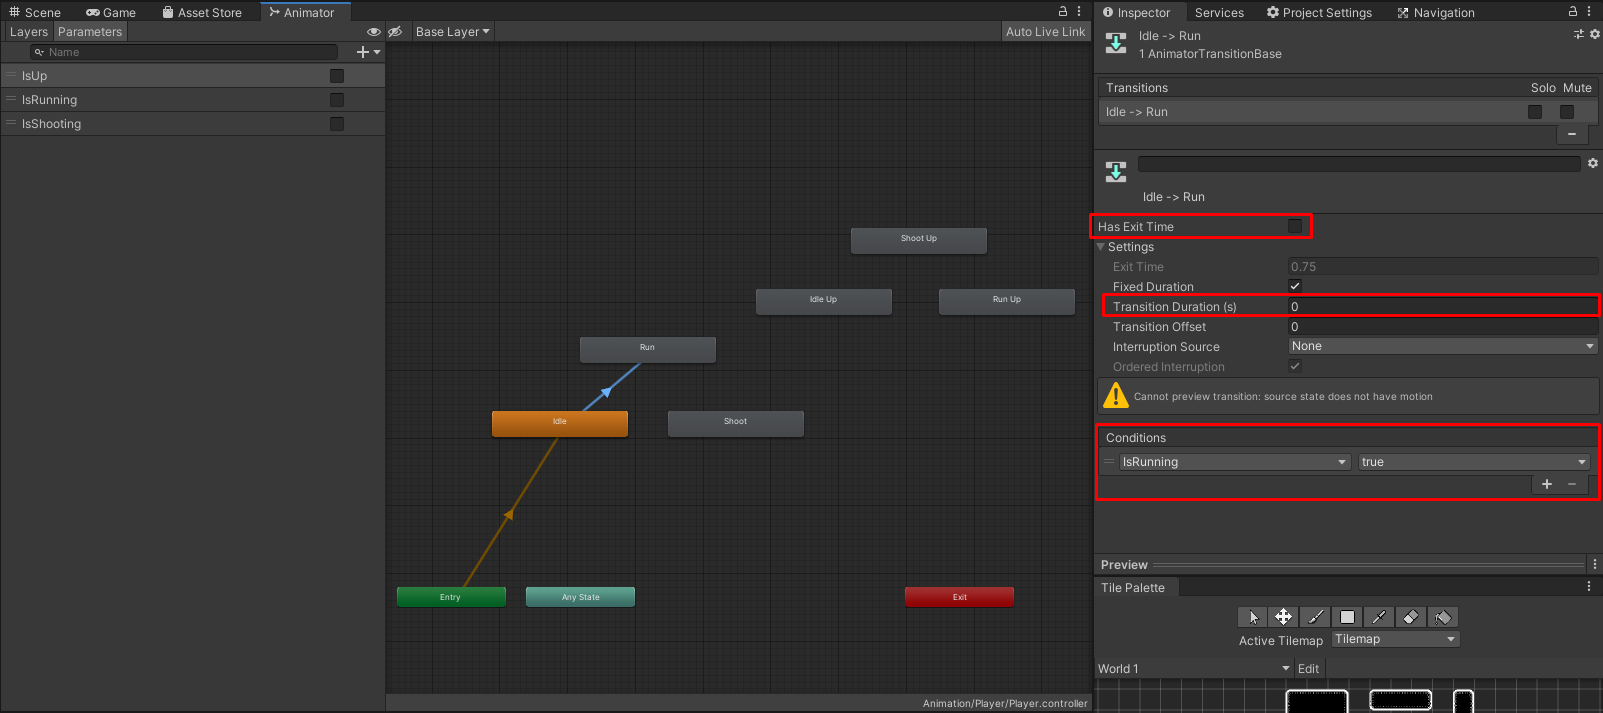
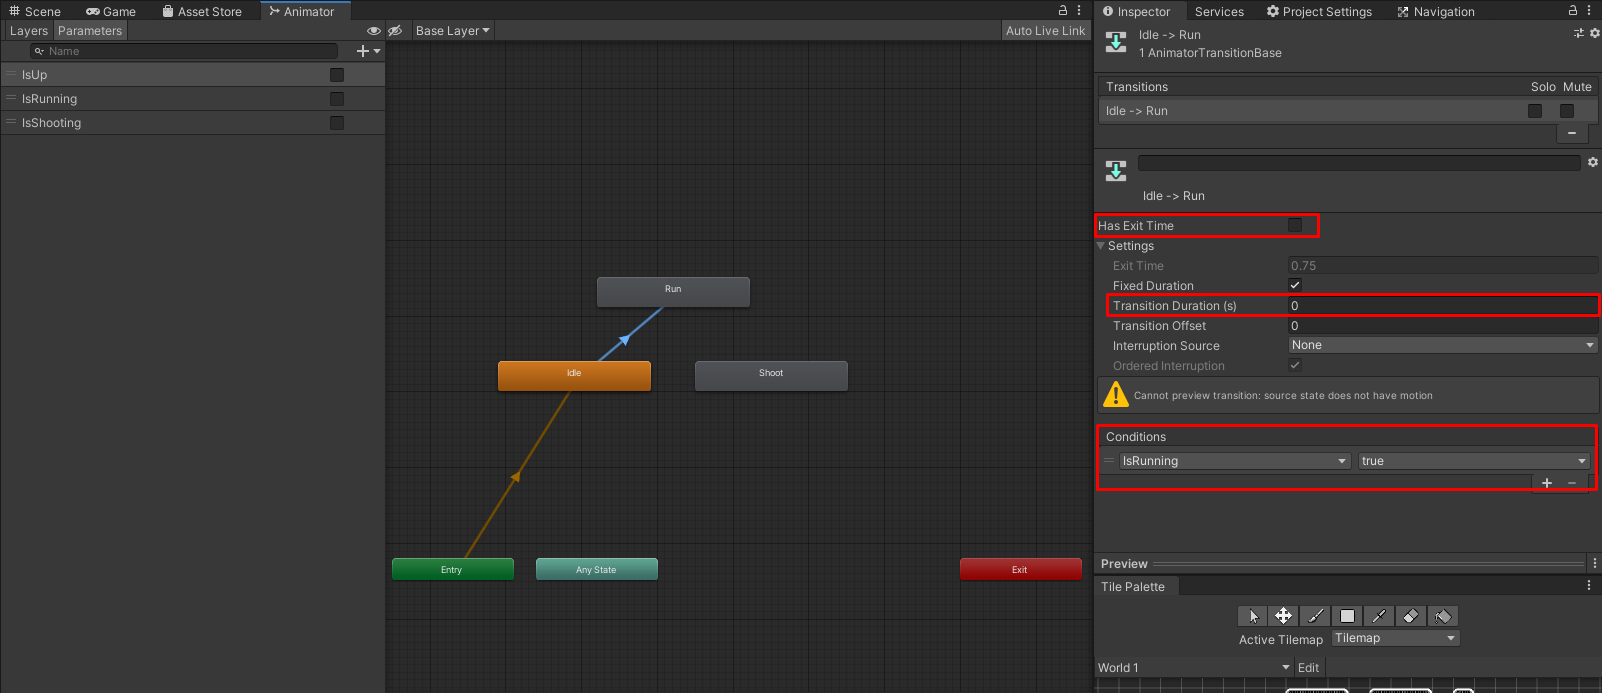
Animation finished

diff --git a/README.md b/README.md
@@ -81,12 +81,14 @@ Kita dapat mencoba memainkan gamenya.
 
 Untuk membuat tilemap dengan cell size yang sama, kita dapat langsung membuat empty game object yang menjadi child Grid. Lalu menambahkan komponen ```Tilemap``` dan ```Tilemap Renderer```. Jika membutuhkan collision bisa menambahkan ```Tilemap Collider```.
 
-## Fixing Rigidbody Rotation and Physics Material
+## Fixing Rigidbody Rotation, Tilemap Collider and Physics Material
 Setelah kita memainkan gamenya, ada 2 masalah yang muncul. Pertama player dapat berotasi jika menabrak sesuatu, dan yang kedua pemain akan menempel ke tembok jika kita gerakkan ke arah tembok. Mari kita perbaiki bug ini.
 
 ![img](img/Bug-1.png)
 
 ![img](img/Bug-2.png)
+
+Dan yang terakhir jika kita mencoba memainkan gamenya, beberapa kali pemain akan tersandung. Ini karena meskipun secara teori tidak ada gap antara tile satu dengan lainnya, terkadang collider pemain masih menganggap player dan tile collide.
 
 ### Rigidbody Constraint
 Seperti yang kita tahu, ```Rigidbody``` akan mengoverride attribut di transform seperti posisi, rotasi. Dalam ```rigidbody```, kita dapat membuat constraint agar ```rigidbody``` tidak mengubah suatu property dalam transform. Untuk ```Rigidbody2D``` dapat di setting di gambar berikut. Dapat dilihat kita dapat memberikan 3 constraint, yaitu Freeze Position X, Freeze Position Y, dan Freeze Rotation Z.  Sesuai dengan namanya, freeze position X berarti ```Rigidbody``` tidak akan mengubah posisi x object tersebut, kita tetap bisa mengubah valuenya jika mengubah transform akan tetapi ```Rigidbody``` tidak akan mengubah value tersebut sama sekali. Begitu juga berlaku untuk Freeze Position Y. Yang terakhir Freeze Rotation Z berarti Rigidbody tidak akan mengubah rotasi dari transform tersebut akan tetapi kita tetap bisa mengubah rotasi transform menggunakan komponen transform.
@@ -109,6 +111,17 @@ Dalam inspector, kita dapat mengubah friction dan bounciness. Friction akan mene
 Setelah membuat physics material. Klik object tilemap, lalu masukkan physics material ke dalam kolom physics material di Collider.
 
 ![img](img/Collider-Physics-Material-Attribute.png)
+
+### Composite Collider
+```Composite Collider``` merupakan ```collider``` khusus yang digunakan untuk menggabungkan semua collider "dibawahnya" dengan attribut used by composite active. Apa maksud dibawahnya? Artinya semua komponen ```collider``` yang ada di satu game object dengan ```Composite Collider``` dan semua komponen ```collider``` yang berada di child game object komponen ```composite collider```. 
+
+Dengan menambahkan ```Composite Collider``` ke object Tilemap dan mengaktifkan Used by composite di ```Tilemap Collider``` maka kita akan meanggabungkan semua ```collider```.
+
+```Composite Collider``` juga menambahkan ```Rigidbody``` ke dalam game object tersebut. Jadi jika objectnya static jangan lupa mengubah body type menjadi static.
+
+![img](img/Composite-Collider.png)
+
+NOTE : Jangan lupa memberi physics material slippery
 
 ## Animation
 Animasi merupakan hal yang penting dalam game. Animasi dalam game unity dihandle menggunakan Finite State Machine. Dimana kita akan mendefinisikan beberapa state, lalu kita dapat memberikan transisi antar state sesuai dengan variable yang kita buat di Animator tersebut. Script akan mengakses value variable di animator ini. Setiap state akan berisi informasi keyframe.
@@ -136,7 +149,7 @@ Beri nama "Player" lalu tekan enter. Drag and drop asset tersebut ke attribute C
 
 ![img](img/Animator-Component-Controller-Assigned.png)
 
-Dengan ini kita bisa melihat Window Animator akan mempunyai tampilan seperti berikut saat kita menselect game object dengan komponen Animator.
+Dengan ini kita bisa melihat Window Animator akan mempunyai tampilan seperti berikut saat kita menselect game object dengan komponen ```Animator```.
 
 ![img](img/Animator-Window-Empty.png)
 
@@ -146,13 +159,13 @@ Berikut adalah scheme sprite sheet.
 
 Dapat dilihat dari skema animasi tersebut, akan dibutuhkan 6 state.
 
-Untuk membuat state kita dapat klik kanan di area state yang ada di window Animator lalu pilih Create-State > Empty. Tekan state yang sudah dibuat lalu beri nama menggunakan inspector. Buatlah 6 state sesuai dengan nama berikut.
+Untuk membuat state kita dapat klik kanan di area state yang ada di window Animator lalu pilih Create-State > Empty. Tekan state yang sudah dibuat lalu beri nama menggunakan inspector. Untuk sementara kita akan memberikan state saat player tidak menghadap ke atas. Buatlah 3 state sesuai dengan nama berikut.
 
 ![img](img/Animator-Window-Full-No-Link.png)
 
-Dapat dilihat, akan ada minimal satu state yang tersambung dengan state Entry. State yang tersambung dengan state entry adalah state yang pertama kali dimasuki oleh Animator Controller.
+Dapat dilihat, akan ada minimal satu state yang tersambung dengan state Entry. State yang tersambung dengan state entry adalah state yang pertama kali dimasuki oleh ```Animator Controller```.
 
-Selanjutnya kita buat variable untuk parameter Animator. Untuk membuat parameter, klik simbol tambah di sisi atas kanan panel kiri. Disini kita dapat membuat beberapa jenis variable. Untuk ini, kita ingin variabel bool untuk IsUp, IsRunning, IsShooting. Buatlah 2 variabel tersebut. 
+Selanjutnya kita buat variable untuk parameter Animator. Untuk membuat parameter, klik simbol tambah di sisi atas kanan panel kiri. Disini kita dapat membuat beberapa jenis variable. Untuk ini, kita ingin variabel bool untuk IsRunning dan IsShooting. Buatlah 2 variabel tersebut. 
 
 Setelah itu buat transisi antar state Idle ke run dengan klik kanan di state Idle, lalu pilih Make Transition selanjutnya klik ke Run. Dengan ini akan ada transisi. Jika garis panah yang menghubungkan kedua state, kita bisa mengubah beberapa atribute.
 
@@ -170,9 +183,95 @@ Buatlah transisi dengan kondisi seperti berikut dan settingan has exit dan trans
 4. Run -> Shoot : IsShooting == True
 5. Shoot -> Run : IsShooting == False, IsRunning == True
 6. Shoot -> Idle : IsShotting == False, IsRunning == False
-7. Any -> IdleUp : IsUp == true
+
+Dengan ini animasi akan berubah sesuai dengan bagaimana kondisi 2 variabel tersebut.
+
+Akan tetapi untuk saat ini, kita masi belum memasukkan animasi ke dalam state - state tersebut. Selanjutnya kita akan belajar cara membuat ```Animation``` asset.
 
 ### Animation
+```Animation``` asset akan menyimpan keyframe dan animasi. Dimana ```Animation``` asset ini akan diassign ke setiap state di ```Animation Controller```. Berikut adalah cara membuat animation asset.
+
+#### Membuat Animation Asset
+ Untuk membuat ```Animation``` asset kita harus navigasi ke folder tempat kita mau menyimpan asset tersebut. Untuk project ini akan disimpan di "/Animation/Player/".
+
+1. Pertama klik kanan di project window, lalu pilih Create > Animation.
+
+![img](img/Create-Animation-Asset.png)
+
+2. Beri nama "Idle" lalu tekan enter
+3. Buat 2 animasi lagi, dengan nama "Run" dan "Shoot".
+4. Setelah itu ke Animator Controller dan pilih setiap state lalu pada attribut motion, masukkan animation yang sesuai.
+
+![img](img/Animator-Window-Full-Link.png)
+
+5. Selanjutnya dapat klik Game Object Player di Hierarchy. Sekarang pada animation window kita dapat menambahkan property yang mau dianimasikan. Untuk ini kita ingin menambahkan pergantian sprite pada Upper Body. Maka kita akan milih attribut Sprite di Sprite Renderer pada Upper Body.
+
+![img](img/Add-Property-1.png)
+
+![img](img/Add-Property-2.png)
+
+6. Selanjutnya kita dapat menambahkan sprite dalam time line dan mengatur frame rate animasi. Untuk mengatur frame rate animasi dapat mengubah Samples nya. Untuk mencoba animasinya dapat menekan tombol play di window animation. Preview animation dapat dilihat di scene view.
+
+![img](img/Animation-Frame-Rate.png)
+
+Untuk animasi idle saya akan beri frame rate 8. Lakukan hal tersebut untuk animasi lainnya.
+
+7. Setelah membuat semua animasi, kita dapat memberikan looping terhadap animasi yang kita buat tadi. Dengan memilih salah satu animasi dan mencheck Loop Time di inspector.
+
+Selanjutnya kita akan mengontrol 2 variabel tadi melalui Script. Untuk kali ini, kita akan memasukkan kodenya ke ```PlayerMovement.cs```. Nanti kita akan belajar bagaimana cara berkomunikasi antara script dan PBO yang benar. Untuk sementara kita akan memasukkan kodenya ke ```PlayerMovement.cs```.
+
+``` cs
+using System.Collections;
+using System.Collections.Generic;
+using UnityEngine;
+
+public class PlayerMovement : MonoBehaviour {
+
+	private Rigidbody2D rb2d;
+	private Animator anm;
+
+	private float dir;
+	[SerializeField] private float speed = 5;
+	[SerializeField] private float jumpForce = 10;
+	[SerializeField] private LayerMask groundMask;
+	[SerializeField] private float groundRayDist = 1f;
+	private bool isTouchingGround = false;
+	private bool isShooting = false;
+
+	void Start() {
+		rb2d = GetComponent<Rigidbody2D>();
+		anm = GetComponent<Animator>();
+	}
+
+	void Update() {
+		float horizontalInput = Input.GetAxis("Horizontal");
+		dir = horizontalInput;
+		if (Input.GetButtonDown("Jump") && isTouchingGround) {
+			Jump();
+		}
+		isShooting = Input.GetButton("Fire1");
+		anm.SetBool("IsShooting", isShooting);
+	}
+
+	private void FixedUpdate() {
+		rb2d.velocity = new Vector2(dir * speed, rb2d.velocity.y);
+		isTouchingGround = Physics2D.Raycast(transform.position, Vector2.down, groundRayDist, groundMask);
+		anm.SetBool("IsRunning", isTouchingGround && (Mathf.Abs(rb2d.velocity.x) > 0.2f));
+	}
+
+	private void OnDrawGizmosSelected() {
+		Gizmos.color = Color.green;
+		Gizmos.DrawLine(transform.position, transform.position + Vector3.down * groundRayDist);
+	}
+
+	private void Jump() {
+		rb2d.velocity = new Vector2(rb2d.velocity.x, jumpForce);
+	}
+
+}
+```
+
+Sekarang dapat kita play, dan semua teranimasikan kecuali kaki player.
 
 ## Reference
 https://docs.unity3d.com/Manual/class-Tilemap.html
